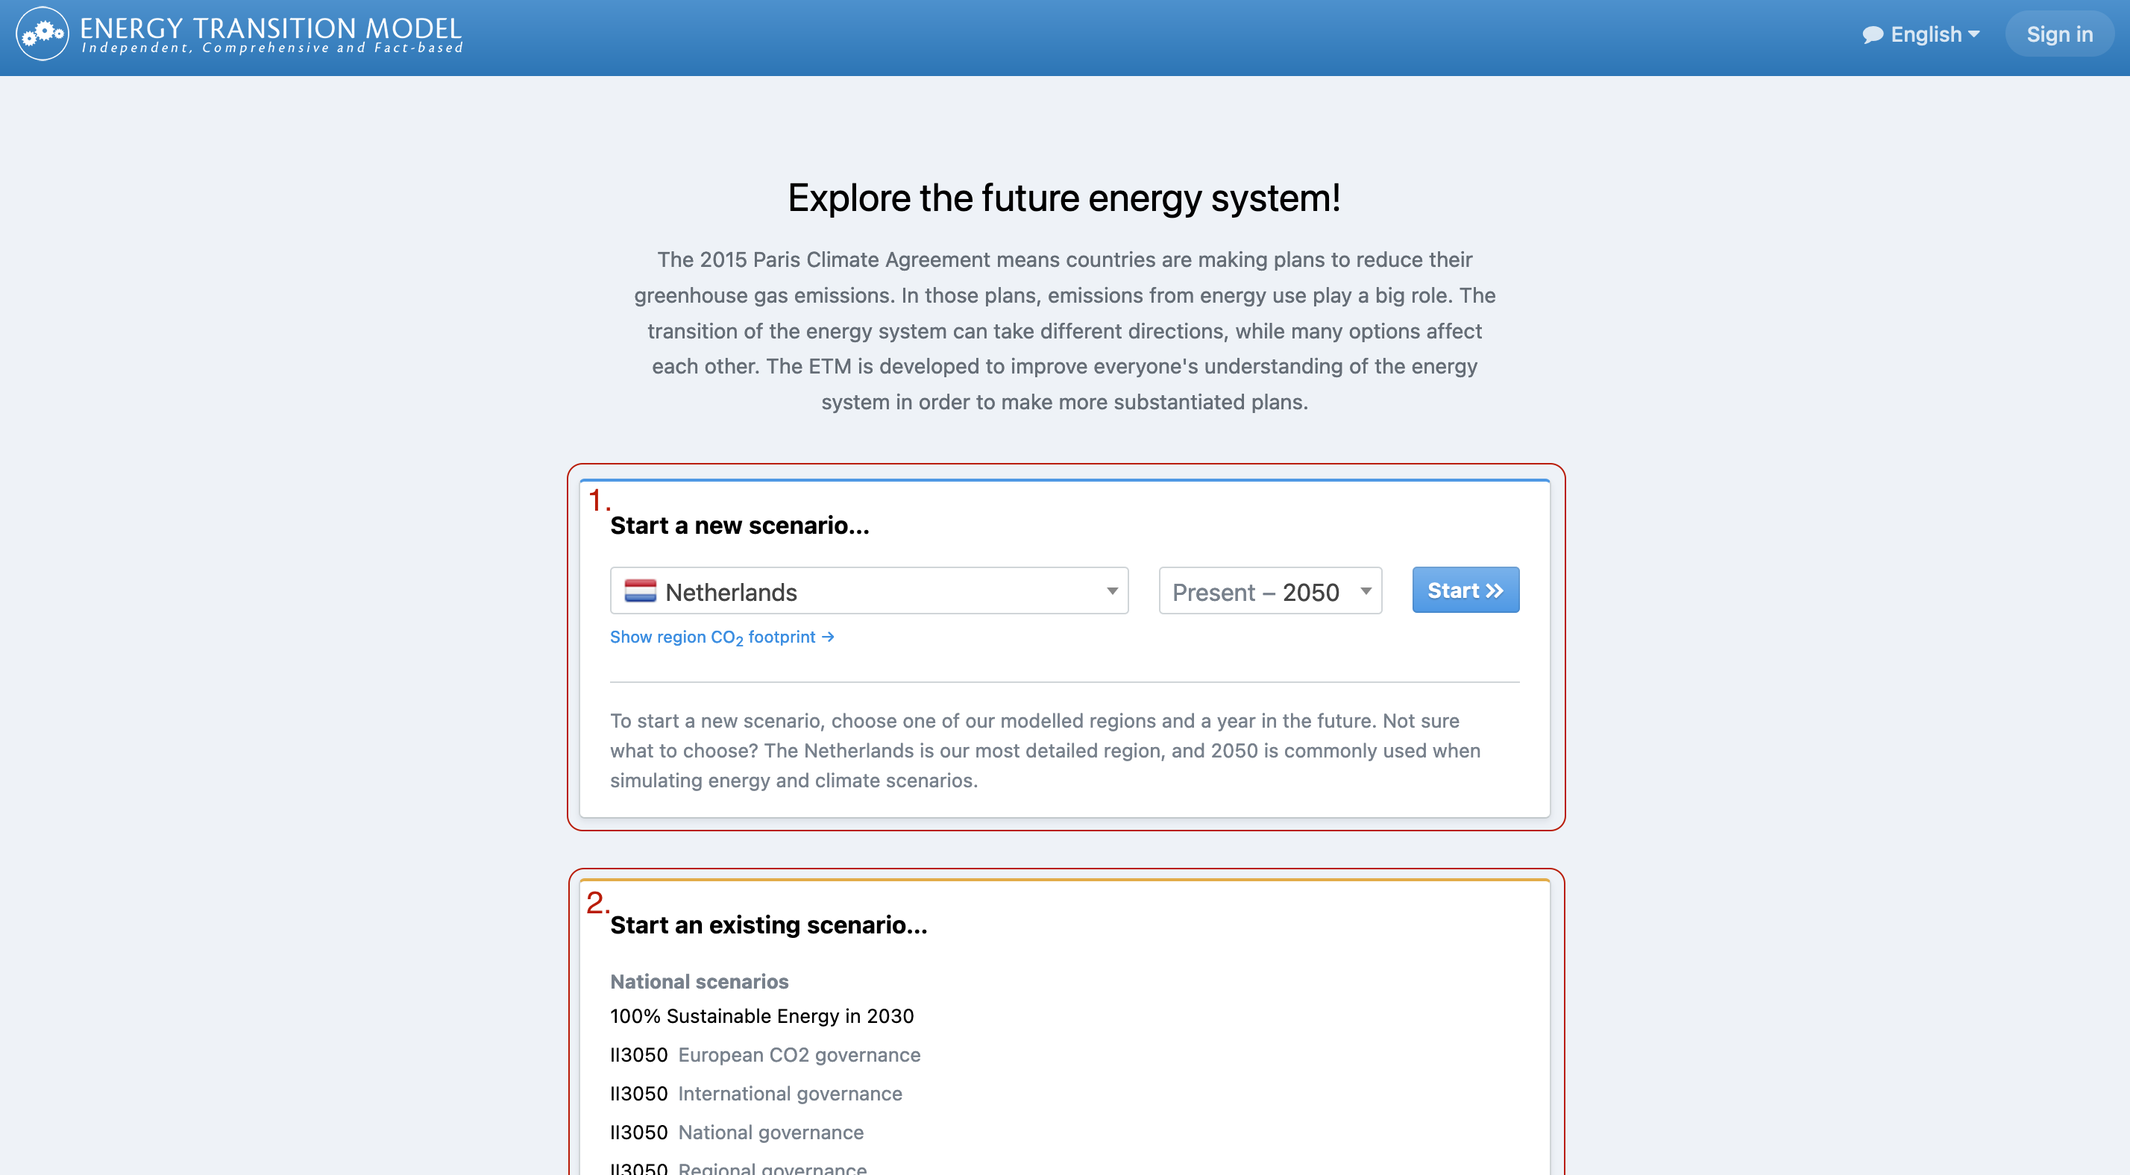
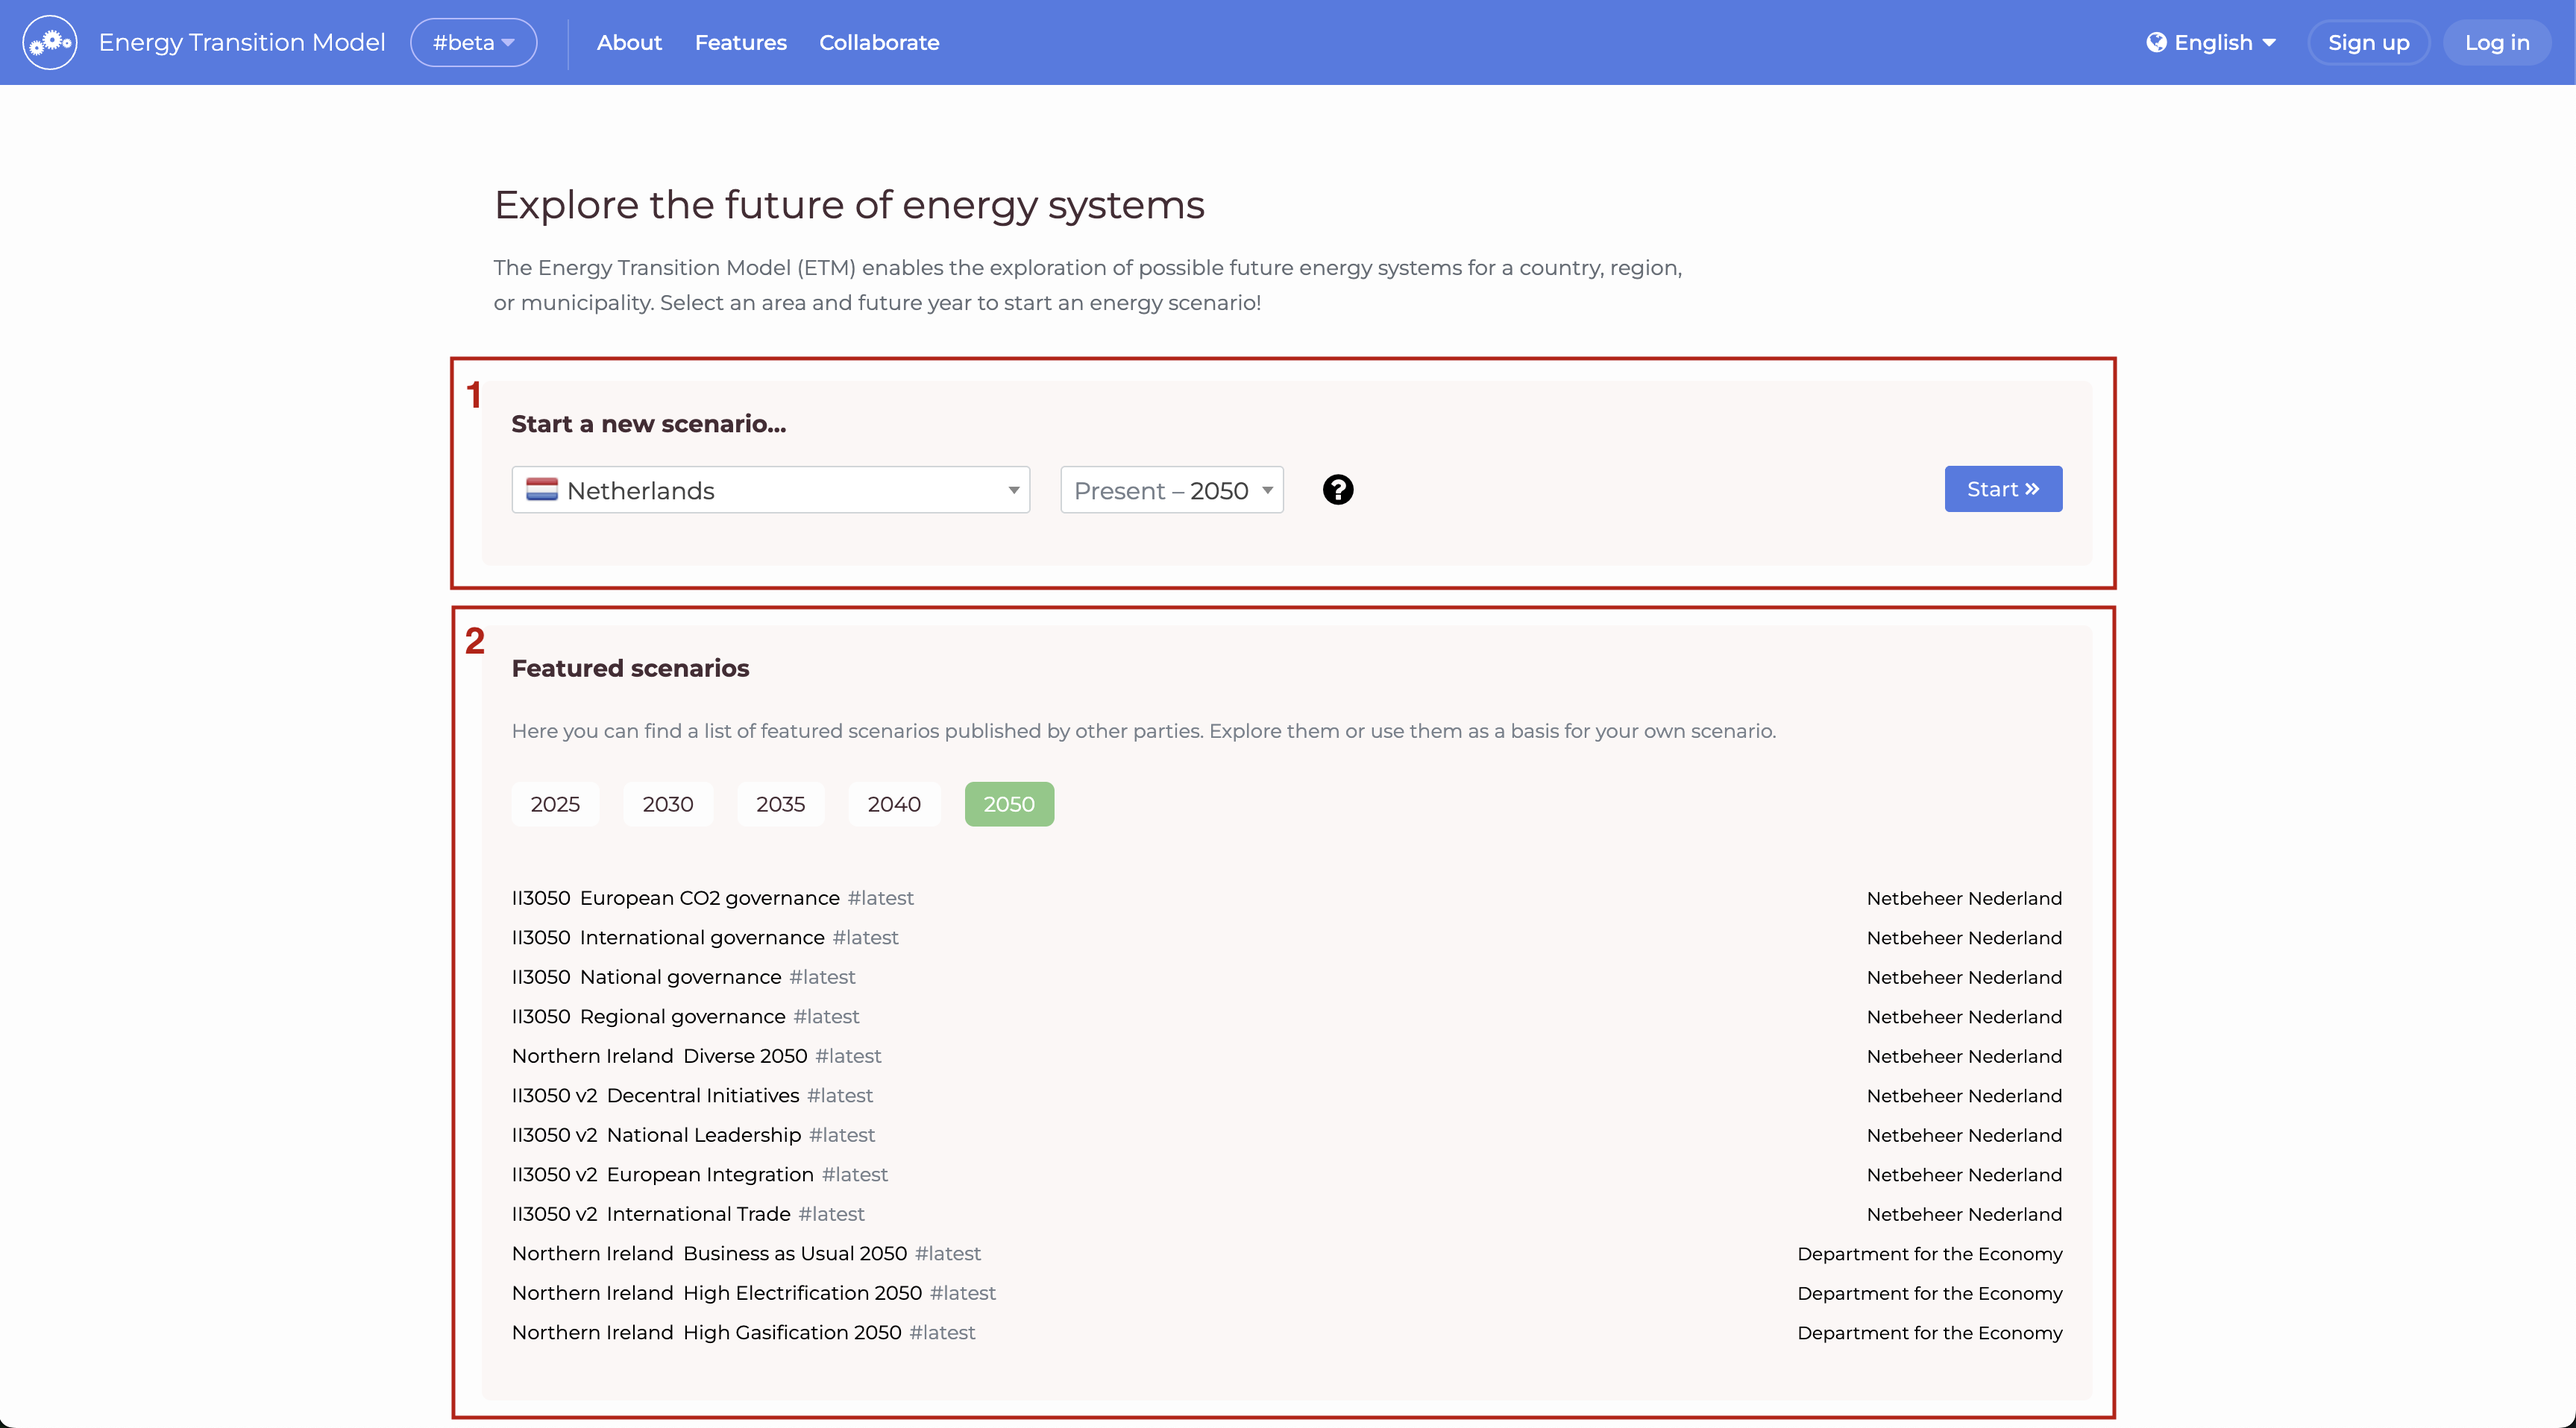
Changed starting scenario and interface images and link. (#279)
Changed the starting scenario and interface images and links along with adapting the text of the description of to the new scenario overview.

Closes #276

---------

diff --git a/docs/main/user_manual/interface.md b/docs/main/user_manual/interface.md
@@ -2,46 +2,47 @@
 title: "Interface"
 ---
 
-This page explains the main features displayed in the [interface](https://energytransitionmodel.com/scenario/overview/introduction/how-does-the-energy-transition-model-work) of the ETM. 
+This page explains the main features displayed in the [interface](https://energytransitionmodel.com/scenario/overview/scenario_overview/overview) of the ETM.
 You will land in the ETM interface after starting or opening a scenario. Here you will find the following topics:
 
 ![The ETM interface](/img/docs/interface.png)
 
 ### 1. Head banner
-Here you can go back to the scenario landing page by clicking on the logo, choose your language (English or Dutch) or sign in if you have an ETM account. Using your account you can save scenario’s or open previously saved scenario’s. If do not have an account but want to create one, simply click on the ‘sign in’ button and choose ‘sign up’. 
+Here you can go back to the scenario landing page by clicking on the logo, choose your language (English or Dutch) or sign in if you have an ETM account. Using your account you can save scenario’s or open previously saved scenario’s. If do not have an account but want to create one, simply click on the ‘sign in’ button and choose ‘sign up’.
 
 ### 2. Scenario toolbar
-In the ‘scenario toolbar’ your current scenario name and end year is visible. To the right you can save the scenario by clicking ‘save scenario’. This option is only available when you have an account and are logged in. Under ‘Actions’ you have the option to save the scenario with a new name by clicking ‘save scenario as…’ or reset the entire scenario by clicking ‘reset scenario’. 
+In the ‘scenario toolbar’ your current scenario name and end year is visible. To the right you can save the scenario by clicking ‘save scenario’. This option is only available when you have an account and are logged in. Under ‘Actions’ you have the option to save the scenario with a new name by clicking ‘save scenario as…’ or reset the entire scenario by clicking ‘reset scenario’.
 
-### 3. Introduction 
-A short introduction to the ETM will guide you in creating your (first) scenario. 
+### 3. Scenario overview
+In this section an overview of your scenario using summarizing charts can be found.
 
 ### 4. Toolbar
 The toolbar allows you to influence the main elements of the future energy system in your region:
-Demand: 	what happens to energy consumption in the future? 
+Demand: 	what happens to energy consumption in the future?
 Supply: 	which technologies will be used to produce heat, electricity and fuel in the future?
 Flexibility: 	future energy systems will most likely be characterized by times of excess electricity due to the volatile nature of the electricity production. Flexibility technologies, like battery storage and power to gas allow you to deal with this excess electricity.
-Costs: 	specify what you think will happen to the costs of carriers and technologies. 
+Emissions: what role will greenhouse gasses and CCUS play in the future?
+Costs & efficiencies: 	pecify what you think will happen to the costs of carriers and technologies.
 
-Checkout: the Detailed Explanations section for more information on calculations and definitions. 
+Checkout: the Detailed Explanations section for more information on calculations and definitions.
 
 ### 5. Tools and sliders
 In the ETM you can use sliders to manipulate the current situation to produce a future energy scenario. You can either:
-* drag the slider 
+* drag the slider
 * use the + and – when more precision is needed
 * or type directly into the slider by clicking on the number.
-The reset button will reset this slider to the current amount. When you need more information about a particular slider the help (?) button will explain the details. 
+The reset button will reset this slider to the current amount. When you need more information about a particular slider the help (?) button will explain the details.
 
-When you do not touch a single slider the future will be regarded as identical to the starting year situation. If you do change a slider this will have a direct effect on the energy flow which is calculated within the model and therefore have an effect on the energy system as a whole. 
+When you do not touch a single slider the future will be regarded as identical to the starting year situation. If you do change a slider this will have a direct effect on the energy flow which is calculated within the model and therefore have an effect on the energy system as a whole.
 
-### 6. Graphics 
-Different types of charts and graphics give direct feedback on the effect of your scenario choices. The help (?) button can provide more information about the specific graph. The change chart button (..) lets you pick and view a different chart from the list. The table button (..) converts the chart to a table. The lock button (..) locks the chart while you can continue working on your scenario in different topics or energy system components. With the widen button (..) you can enlarge the graph to spot the details. The ‘+ see more charts’ button at the top allows you to see multiple graphs at the same time. 
+### 6. Graphics
+Different types of charts and graphics give direct feedback on the effect of your scenario choices. The help (?) button can provide more information about the specific graph. The change chart button (..) lets you pick and view a different chart from the list. The table button (..) converts the chart to a table. The lock button (..) locks the chart while you can continue working on your scenario in different topics or energy system components. With the widen button (..) you can enlarge the graph to spot the details. The ‘+ see more charts’ button at the top allows you to see multiple graphs at the same time.
 
 ### 7. Results
 In the results tab you can find different overviews portraying the outcomes based on your scenario. The ‘visuals’ tab contains a number of different formats all portraying different aspects of your energy scenario. The ‘scenario report’ is the most comprehensive containing a textual and graphic explanation of your scenario. Other sub-tabs (‘Energy Mix Inforgraphic’, ‘CO<sub>2</sub> footprint’, ‘Graph and energy flows’ and ‘CCUS’) each portray a different visual explanation of your scenario. The ‘data export’ tab under the ‘visuals’ tab lets you export data generated in the ETM (CSV) which can serve as input for your own graphs or other models.
 
-### 8. Dashboard 
-The dashboard shows direct feedback on the most important outcomes of your scenario. The change button to the right makes it possible to show a different numerical output on the dashboard. The numbers shown in the dashboard and ETM as a whole always reflect the difference between the start- and end year you have chosen for your scenario except for the item that show the difference in CO<sub>2</sub> emissions from 1990. 
+### 8. Dashboard
+The dashboard shows direct feedback on the most important outcomes of your scenario. The change button to the right makes it possible to show a different numerical output on the dashboard. The numbers shown in the dashboard and ETM as a whole always reflect the difference between the start- and end year you have chosen for your scenario except for the item that show the difference in CO<sub>2</sub> emissions from 1990.
 
-_Checkout: the [Dashboard](../dashboard) section in this documentation for more information._ 
+_Checkout: the [Dashboard](../dashboard) section in this documentation for more information._
  
